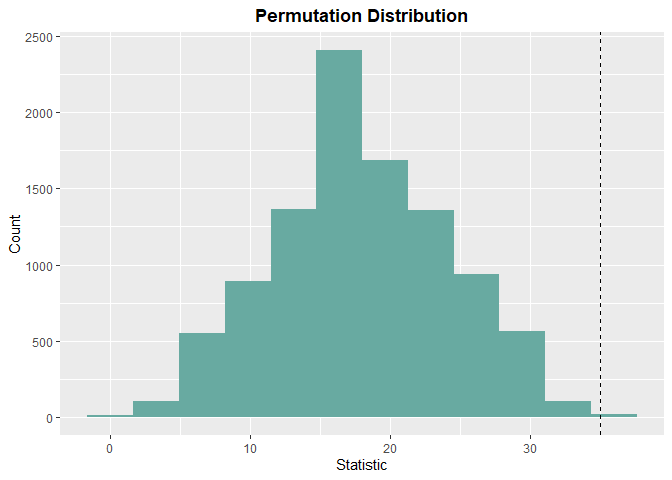
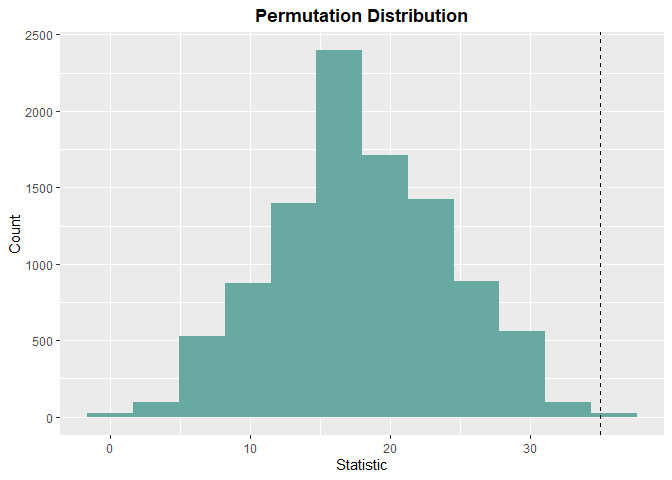
update readme

diff --git a/README.md b/README.md
@@ -3,13 +3,6 @@
 
 # LearnNonparam
 
-<!-- badges: start -->
-
-[![Codecov test
-coverage](https://codecov.io/gh/qddyy/LearnNonparam/branch/master/graph/badge.svg)](https://app.codecov.io/gh/qddyy/LearnNonparam?branch=master)
-[![R-CMD-check](https://github.com/qddyy/LearnNonparam/actions/workflows/R-CMD-check.yaml/badge.svg)](https://github.com/qddyy/LearnNonparam/actions/workflows/R-CMD-check.yaml)
-<!-- badges: end -->
-
 The goal of LearnNonparam is to conduct non-parametric tests (mostly
 based on permutations).
 
@@ -55,7 +48,7 @@ library(LearnNonparam)
   print(t$statistic)
   #> [1] 35
   print(t$p_value)
-  #> [1] 0.0017
+  #> [1] 0.0021
 
   print(t$estimate)
   #> [1] 30.045
@@ -81,8 +74,7 @@ library(LearnNonparam)
 Just use `?...` syntax.
 
 If you want to know all available methods and attributes, it’s a good
-idea to explore `?PermuTest` (all tests’ **base class**) and
-`?MultipleComparison` first.
+idea to explore `?PermuTest` (all tests’ **base class**) first.
 
 If you want to know all available tests, see `pmts`.
 
